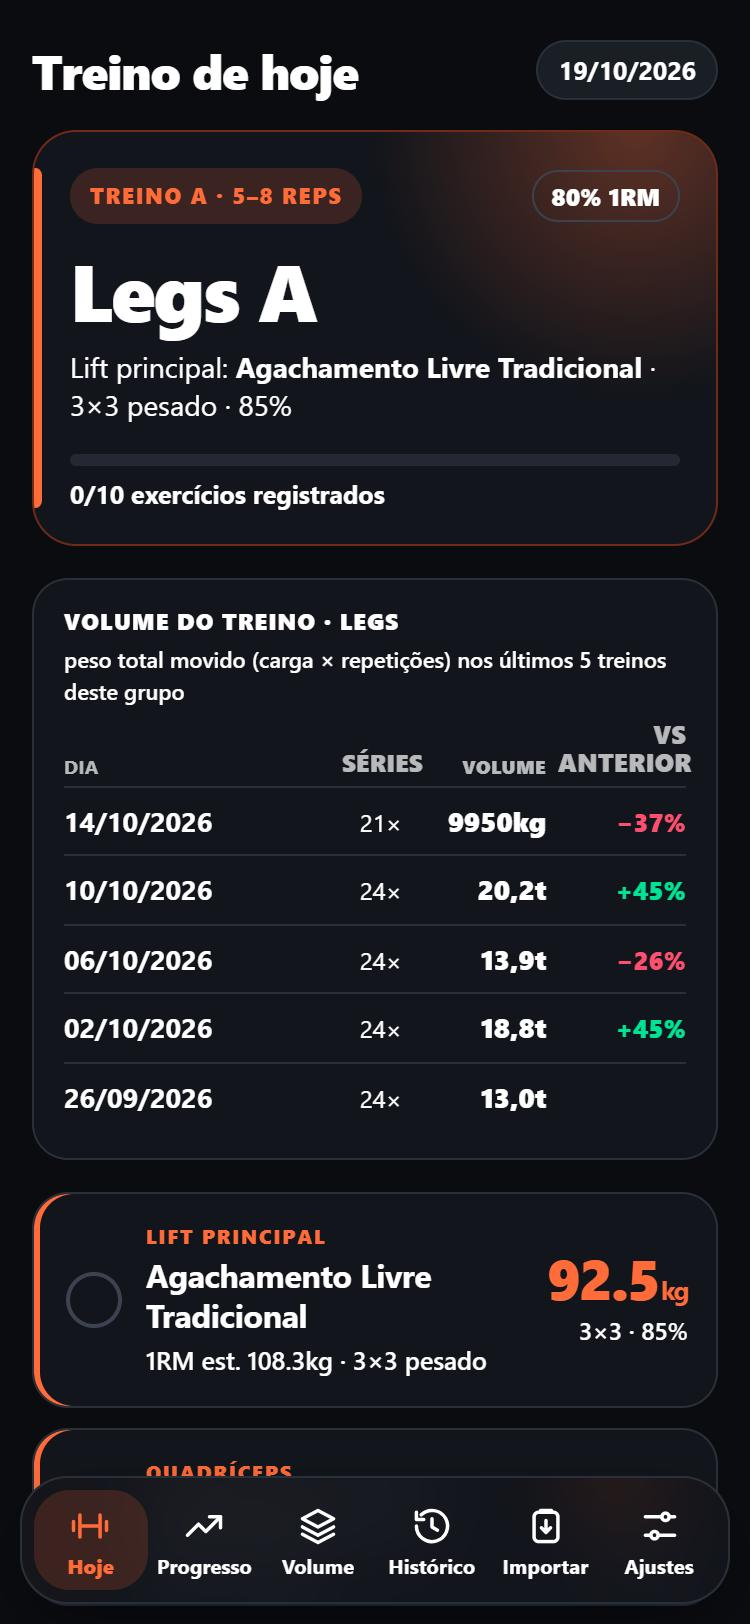
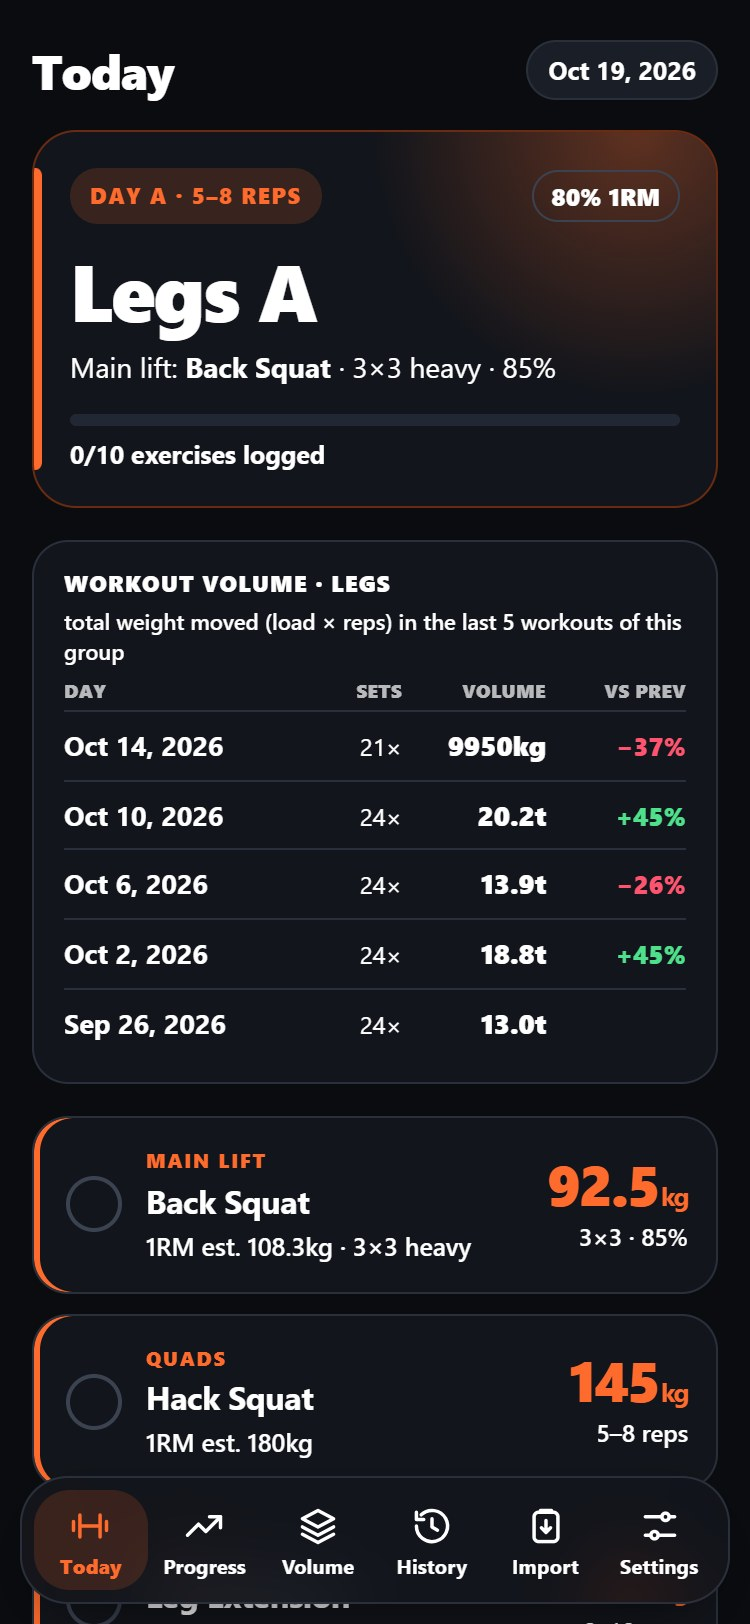
readme + screenshots

diff --git a/README.md b/README.md
@@ -21,7 +21,7 @@ The workout tracker I use at the gym. It's built around how I actually log train
 python -m http.server 4173
 ```
 
-Open http://localhost:4173, go to **Importar** and paste `test/sample-history.txt` (synthetic data, not my log).
+Open http://localhost:4173, go to **Import** and paste `test/sample-history.txt` (synthetic data in the same format as my notebook, not my log).
 
 `node build.mjs` writes a single self-contained `ppl-tracker.html`, which is what lives on my phone for offline use.
 
@@ -33,6 +33,6 @@ node --test
 
 ## Notes
 
-- UI text and the exercise vocabulary are Portuguese on purpose: the importer exists to read my notes. Common English gym terms map into it (lat pulldown, skull crusher, leg press, seated row...).
+- The importer's vocabulary is Portuguese on purpose, it exists to read my notes. Common English gym terms map into it (bench press, lat pulldown, skull crusher, leg press...). Ids and history keep the Portuguese words; `js/names.js` only translates what's printed, otherwise sets logged in the app and imported ones would end up in two histories.
 - Everything is stored in `localStorage`. Sync needs a fine-grained token with Contents read/write on **one** private repo; the app refuses to sync to a public one.
 - `_headers` is the CSP used on Cloudflare Pages. With it, the only place the page can send data to is api.github.com.
